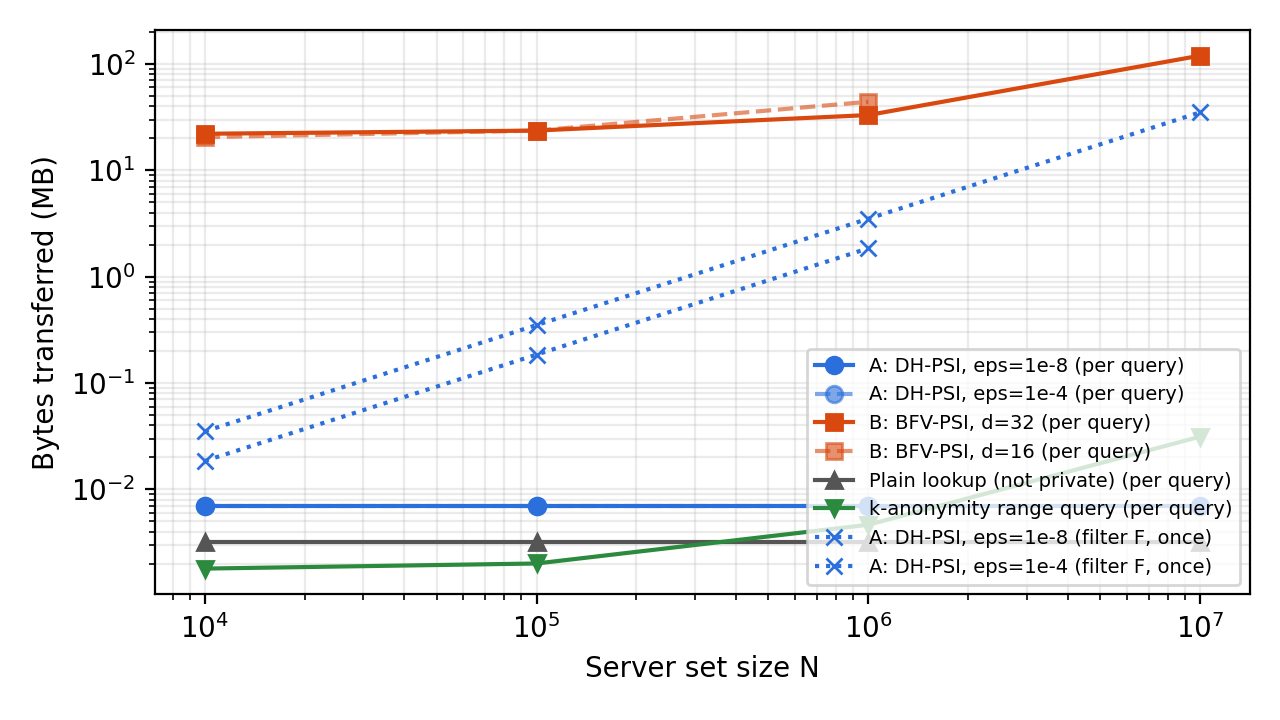
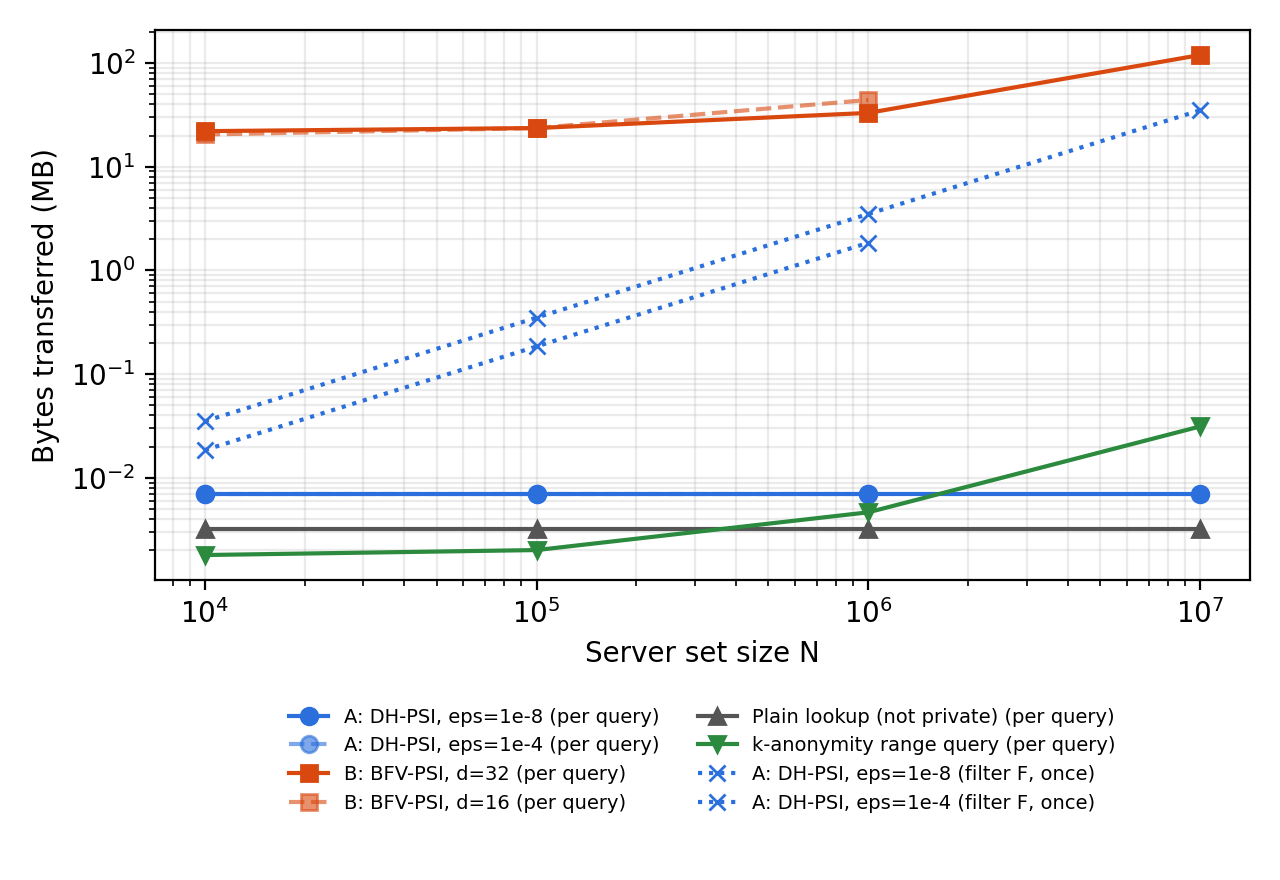
Move figure legends below the plots

diff --git a/bench/plots.py b/bench/plots.py
@@ -101,7 +101,8 @@ def fig_bytes_vs_n(summary):
     ax.set(xscale="log", yscale="log", xlabel="Server set size N",
            ylabel="Bytes transferred (MB)")
     ax.grid(True, which="both", alpha=0.25)
-    ax.legend(fontsize=7, loc="lower right", ncol=1)
+    ax.legend(fontsize=7, loc="upper center", bbox_to_anchor=(0.5, -0.2), ncol=2, frameon=False)
+    fig.set_size_inches(6.4, 4.4)
     fig.tight_layout()
     fig.savefig(RES / "fig_bytes_vs_n.png", dpi=200)
 
@@ -120,7 +121,8 @@ def fig_time_vs_k(summary):
     ax.set(xscale="log", yscale="log", xlabel=f"Client set size k (N = {N:,})",
            ylabel="Online query time (s)")
     ax.grid(True, which="both", alpha=0.25)
-    ax.legend(fontsize=7.5)
+    ax.legend(fontsize=7.5, loc="upper center", bbox_to_anchor=(0.5, -0.22), ncol=2, frameon=False)
+    fig.set_size_inches(6.4, 3.7)
     fig.tight_layout()
     fig.savefig(RES / "fig_time_vs_k.png", dpi=200)
 
